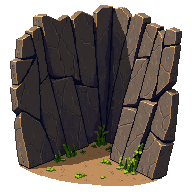
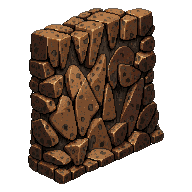
Replace floor tiles

diff --git a/src/scenes/CaveBarScene.js b/src/scenes/CaveBarScene.js
@@ -117,110 +117,175 @@ export default class CaveBarScene extends Phaser.Scene {
      * Cave bar dimensions: ~20×15 world units (smaller than hunt arenas)
      */
     buildFloor() {
-        console.log('🏗  Building cave bar floor...');
+        console.log('🏗  Building organic cave floor...');
 
-        // Floor dimensions in world units
-        const roomWidth = 20;
-        const roomHeight = 15;
-
-        // Tile size in world units (each tile = 0.64 world units)
-        // Note: Cave bar tiles are 64px, which maps to 0.64 world units at our scale
+        const centerX = 10;
+        const centerY = 7.5;
+        const radiusX = 10; // Match wall ellipse
+        const radiusY = 7.5; // Match wall ellipse
         const tileSize = 0.64;
 
-        // Calculate number of tiles needed to fill the room
-        const tilesWide = Math.ceil(roomWidth / tileSize);
-        const tilesHigh = Math.ceil(roomHeight / tileSize);
+        // Calculate tile grid bounds
+        const minX = Math.floor((centerX - radiusX) / tileSize);
+        const maxX = Math.ceil((centerX + radiusX) / tileSize);
+        const minY = Math.floor((centerY - radiusY) / tileSize);
+        const maxY = Math.ceil((centerY + radiusY) / tileSize);
 
-        // Create floor tile sprites
-        for (let x = 0; x < tilesWide; x++) {
-            for (let y = 0; y < tilesHigh; y++) {
+        let floorTileCount = 0;
+
+        // Create floor tiles only inside the organic cave shape
+        for (let x = minX; x <= maxX; x++) {
+            for (let y = minY; y <= maxY; y++) {
                 const worldX = x * tileSize;
                 const worldY = y * tileSize;
-                const worldZ = 0; // Floor at ground level
 
+                // Check if this tile is inside the organic cave boundary
+                if (!this.isInsideCave(worldX, worldY, centerX, centerY, radiusX, radiusY)) {
+                    continue; // Skip tiles outside the cave
+                }
+
+                const worldZ = 0; // Floor at ground level
                 const screenPos = worldToScreen(worldX, worldY, worldZ);
                 const depth = calculateDepth(worldY, worldZ);
 
-                // Vary floor tiles for visual interest
-                let tileKey = 'cave-stone-floor'; // Default
+                // Use darker floor tiles for cave atmosphere
+                let tileKey = 'cave-wall-base'; // Darker default floor (same as walls)
 
-                // Add polished floor near bar area (center-right of room)
-                // Adjust coordinates to work with world units instead of tile indices
+                // Add lighter polished floor near bar area (center-right of room)
                 if (worldX >= 10 && worldX <= 15 && worldY >= 5 && worldY <= 10) {
-                    tileKey = 'polished-cave-floor';
+                    tileKey = 'cave-stone-floor'; // Lighter tan for bar area contrast
                 }
 
-                // Add decorative floor tiles randomly (5% chance)
+                // Add occasional darker accent tiles (5% chance)
                 if (Math.random() < 0.05) {
-                    tileKey = 'decorative-floor';
+                    tileKey = 'polished-cave-floor'; // Dark purple accent
                 }
 
                 const tile = this.add.sprite(screenPos.x, screenPos.y, tileKey);
                 tile.setDepth(depth);
+                floorTileCount++;
             }
         }
 
-        console.log(`✅ Floor built (${tilesWide}×${tilesHigh} = ${tilesWide * tilesHigh} tiles at ${tileSize} unit spacing)`);
+        console.log(`✅ Organic floor built (${floorTileCount} tiles inside cave boundary)`);
     }
 
     /**
-     * Build walls around room perimeter using props
+     * Check if a point is inside the organic cave boundary
+     * Uses same elliptical shape with variations as the walls
+     */
+    isInsideCave(x, y, centerX, centerY, radiusX, radiusY) {
+        // Calculate angle from center to point
+        const dx = x - centerX;
+        const dy = y - centerY;
+        const angle = Math.atan2(dy, dx);
+
+        // Apply same organic variations as wall generation
+        const variation1 = Math.sin(angle * 3) * 0.8;
+        const variation2 = Math.sin(angle * 5 + 1.5) * 0.5;
+        const variation3 = Math.sin(angle * 2 + 3) * 1.2;
+        const radiusVariation = variation1 + variation2 + variation3;
+
+        // Calculate effective radius at this angle for ellipse
+        const effectiveRadiusX = radiusX + radiusVariation;
+        const effectiveRadiusY = radiusY + radiusVariation;
+
+        // Distance from center
+        const distance = Math.sqrt(dx * dx + dy * dy);
+
+        // Expected radius at this angle (ellipse formula)
+        const expectedRadius = Math.sqrt(
+            (effectiveRadiusX * effectiveRadiusX * effectiveRadiusY * effectiveRadiusY) /
+            (effectiveRadiusY * effectiveRadiusY * Math.cos(angle) * Math.cos(angle) +
+             effectiveRadiusX * effectiveRadiusX * Math.sin(angle) * Math.sin(angle))
+        );
+
+        // Point is inside if its distance is less than the expected radius
+        // Add small margin to ensure floor extends slightly under walls
+        return distance <= expectedRadius * 0.95;
+    }
+
+    /**
+     * Build walls using elevated floor tiles (high worldZ)
+     * Creates an organic, rounded cave perimeter
      */
     buildWalls() {
-        console.log('🏗  Building cave walls...');
+        console.log('🏗  Building organic cave walls...');
 
-        const roomWidth = 20;
-        const roomHeight = 15;
+        const centerX = 10;
+        const centerY = 7.5;
+        const radiusX = 10; // Horizontal radius
+        const radiusY = 7.5; // Vertical radius (creates ellipse)
+        const tileSize = 0.64;
+        const wallLayers = 6;
+        const layerSpacing = 0.15;
 
-        // Place wall barriers around perimeter
-        // Left wall (west side)
-        for (let y = 0; y < roomHeight; y += 3) {
-            const screenPos = worldToScreen(-0.5, y, 0);
-            const depth = calculateDepth(y, 0);
-            const wall = this.add.sprite(screenPos.x, screenPos.y, 'cave-wall-straight');
-            wall.setDepth(depth + 100); // Higher depth to appear behind props
+        let wallTileCount = 0;
+
+        // Generate wall positions along an elliptical perimeter with organic variations
+        const wallPoints = this.generateCavePerimeter(centerX, centerY, radiusX, radiusY, tileSize);
+
+        // Create tightly stacked wall layers
+        for (let layer = 0; layer < wallLayers; layer++) {
+            const layerZ = layer * layerSpacing;
+
+            wallPoints.forEach(point => {
+                const screenPos = worldToScreen(point.x, point.y, layerZ);
+                const depth = calculateDepth(point.y, layerZ);
+                const wall = this.add.sprite(screenPos.x, screenPos.y, 'cave-wall-base');
+                wall.setDepth(depth);
+                wallTileCount++;
+            });
         }
 
-        // Right wall (east side)
-        for (let y = 0; y < roomHeight; y += 3) {
-            const screenPos = worldToScreen(roomWidth + 0.5, y, 0);
-            const depth = calculateDepth(y, 0);
-            const wall = this.add.sprite(screenPos.x, screenPos.y, 'cave-wall-straight');
-            wall.setDepth(depth + 100);
+        console.log(`✅ Organic cave walls built (${wallTileCount} tiles in ${wallLayers} layers)`);
+    }
+
+    /**
+     * Generate organic cave perimeter points
+     * Creates an elliptical shape with natural variations
+     */
+    generateCavePerimeter(centerX, centerY, radiusX, radiusY, tileSize) {
+        const points = [];
+        const angleStep = Math.PI / 24; // Sample points around the ellipse
+
+        for (let angle = 0; angle < Math.PI * 2; angle += angleStep) {
+            // Base ellipse position
+            let x = centerX + Math.cos(angle) * radiusX;
+            let y = centerY + Math.sin(angle) * radiusY;
+
+            // Add organic variations using sine waves at different frequencies
+            const variation1 = Math.sin(angle * 3) * 0.8; // Small bumps
+            const variation2 = Math.sin(angle * 5 + 1.5) * 0.5; // Smaller details
+            const variation3 = Math.sin(angle * 2 + 3) * 1.2; // Larger curves
+
+            // Apply variations to radius
+            const radiusVariation = variation1 + variation2 + variation3;
+            x = centerX + Math.cos(angle) * (radiusX + radiusVariation);
+            y = centerY + Math.sin(angle) * (radiusY + radiusVariation);
+
+            // Fill in between sampled points with tiles
+            const lastPoint = points[points.length - 1];
+            if (lastPoint) {
+                const dx = x - lastPoint.x;
+                const dy = y - lastPoint.y;
+                const distance = Math.sqrt(dx * dx + dy * dy);
+                const steps = Math.ceil(distance / tileSize);
+
+                // Add intermediate points
+                for (let step = 1; step < steps; step++) {
+                    const t = step / steps;
+                    points.push({
+                        x: lastPoint.x + dx * t,
+                        y: lastPoint.y + dy * t
+                    });
+                }
+            }
+
+            points.push({ x, y });
         }
 
-        // Top wall (north side)
-        for (let x = 0; x < roomWidth; x += 3) {
-            const screenPos = worldToScreen(x, -0.5, 0);
-            const depth = calculateDepth(-0.5, 0);
-            const wall = this.add.sprite(screenPos.x, screenPos.y, 'cave-wall-barrier');
-            wall.setDepth(depth + 100);
-        }
-
-        // Bottom wall (south side, behind players)
-        for (let x = 0; x < roomWidth; x += 3) {
-            const screenPos = worldToScreen(x, roomHeight + 0.5, 0);
-            const depth = calculateDepth(roomHeight + 0.5, 0);
-            const wall = this.add.sprite(screenPos.x, screenPos.y, 'cave-wall-barrier');
-            wall.setDepth(depth + 100);
-        }
-
-        // Add corners for visual interest
-        const corners = [
-            { x: -0.5, y: -0.5 }, // Top-left
-            { x: roomWidth + 0.5, y: -0.5 }, // Top-right
-            { x: -0.5, y: roomHeight + 0.5 }, // Bottom-left
-            { x: roomWidth + 0.5, y: roomHeight + 0.5 } // Bottom-right
-        ];
-
-        corners.forEach(corner => {
-            const screenPos = worldToScreen(corner.x, corner.y, 0);
-            const depth = calculateDepth(corner.y, 0);
-            const wall = this.add.sprite(screenPos.x, screenPos.y, 'cave-wall-corner-prop');
-            wall.setDepth(depth + 100);
-        });
-
-        console.log('✅ Cave walls built');
+        return points;
     }
 
     /**
